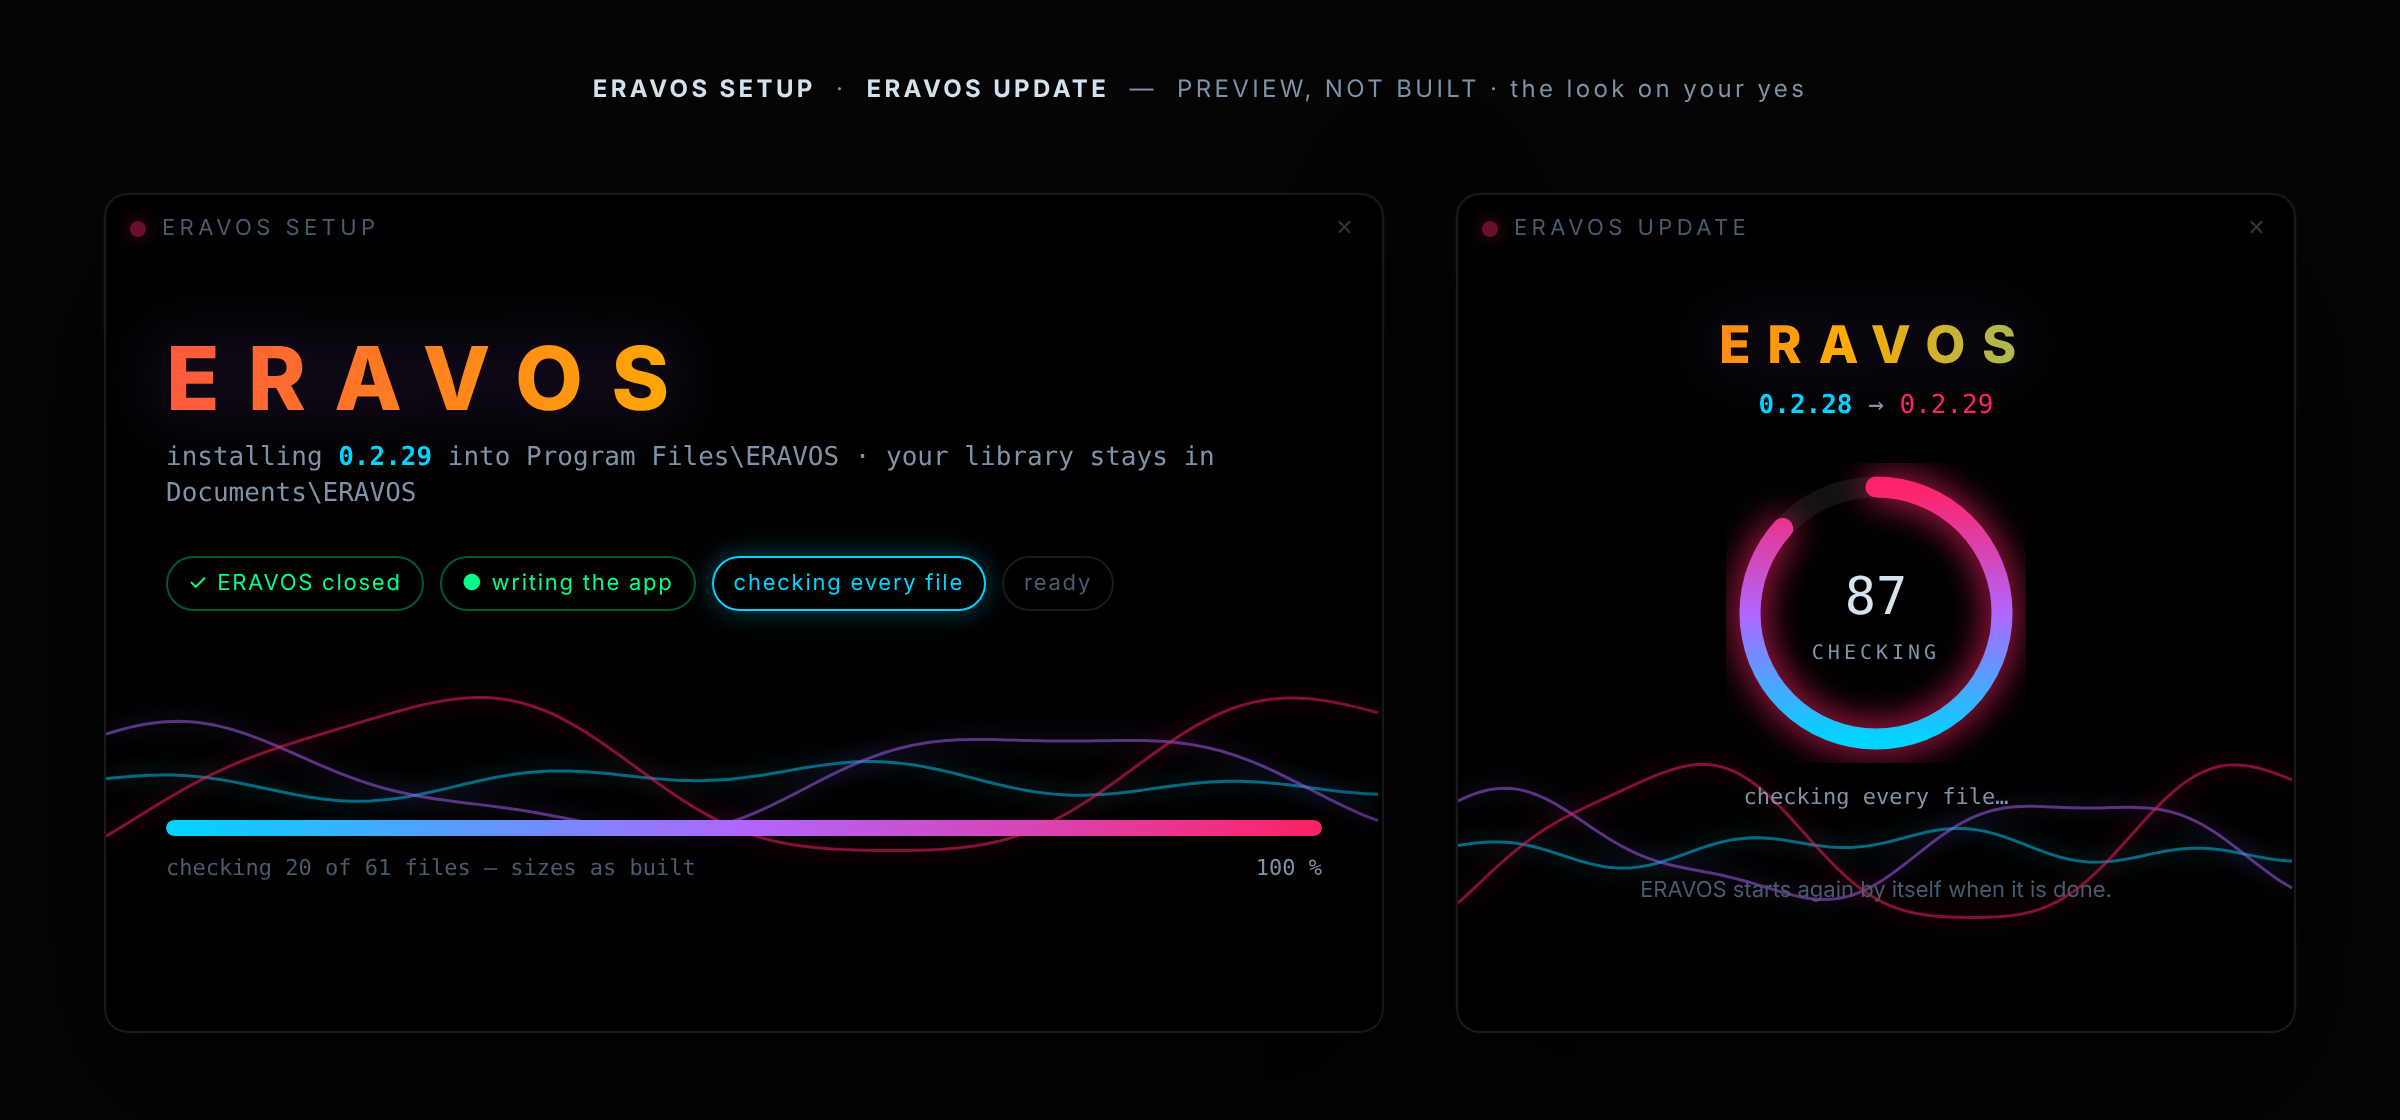
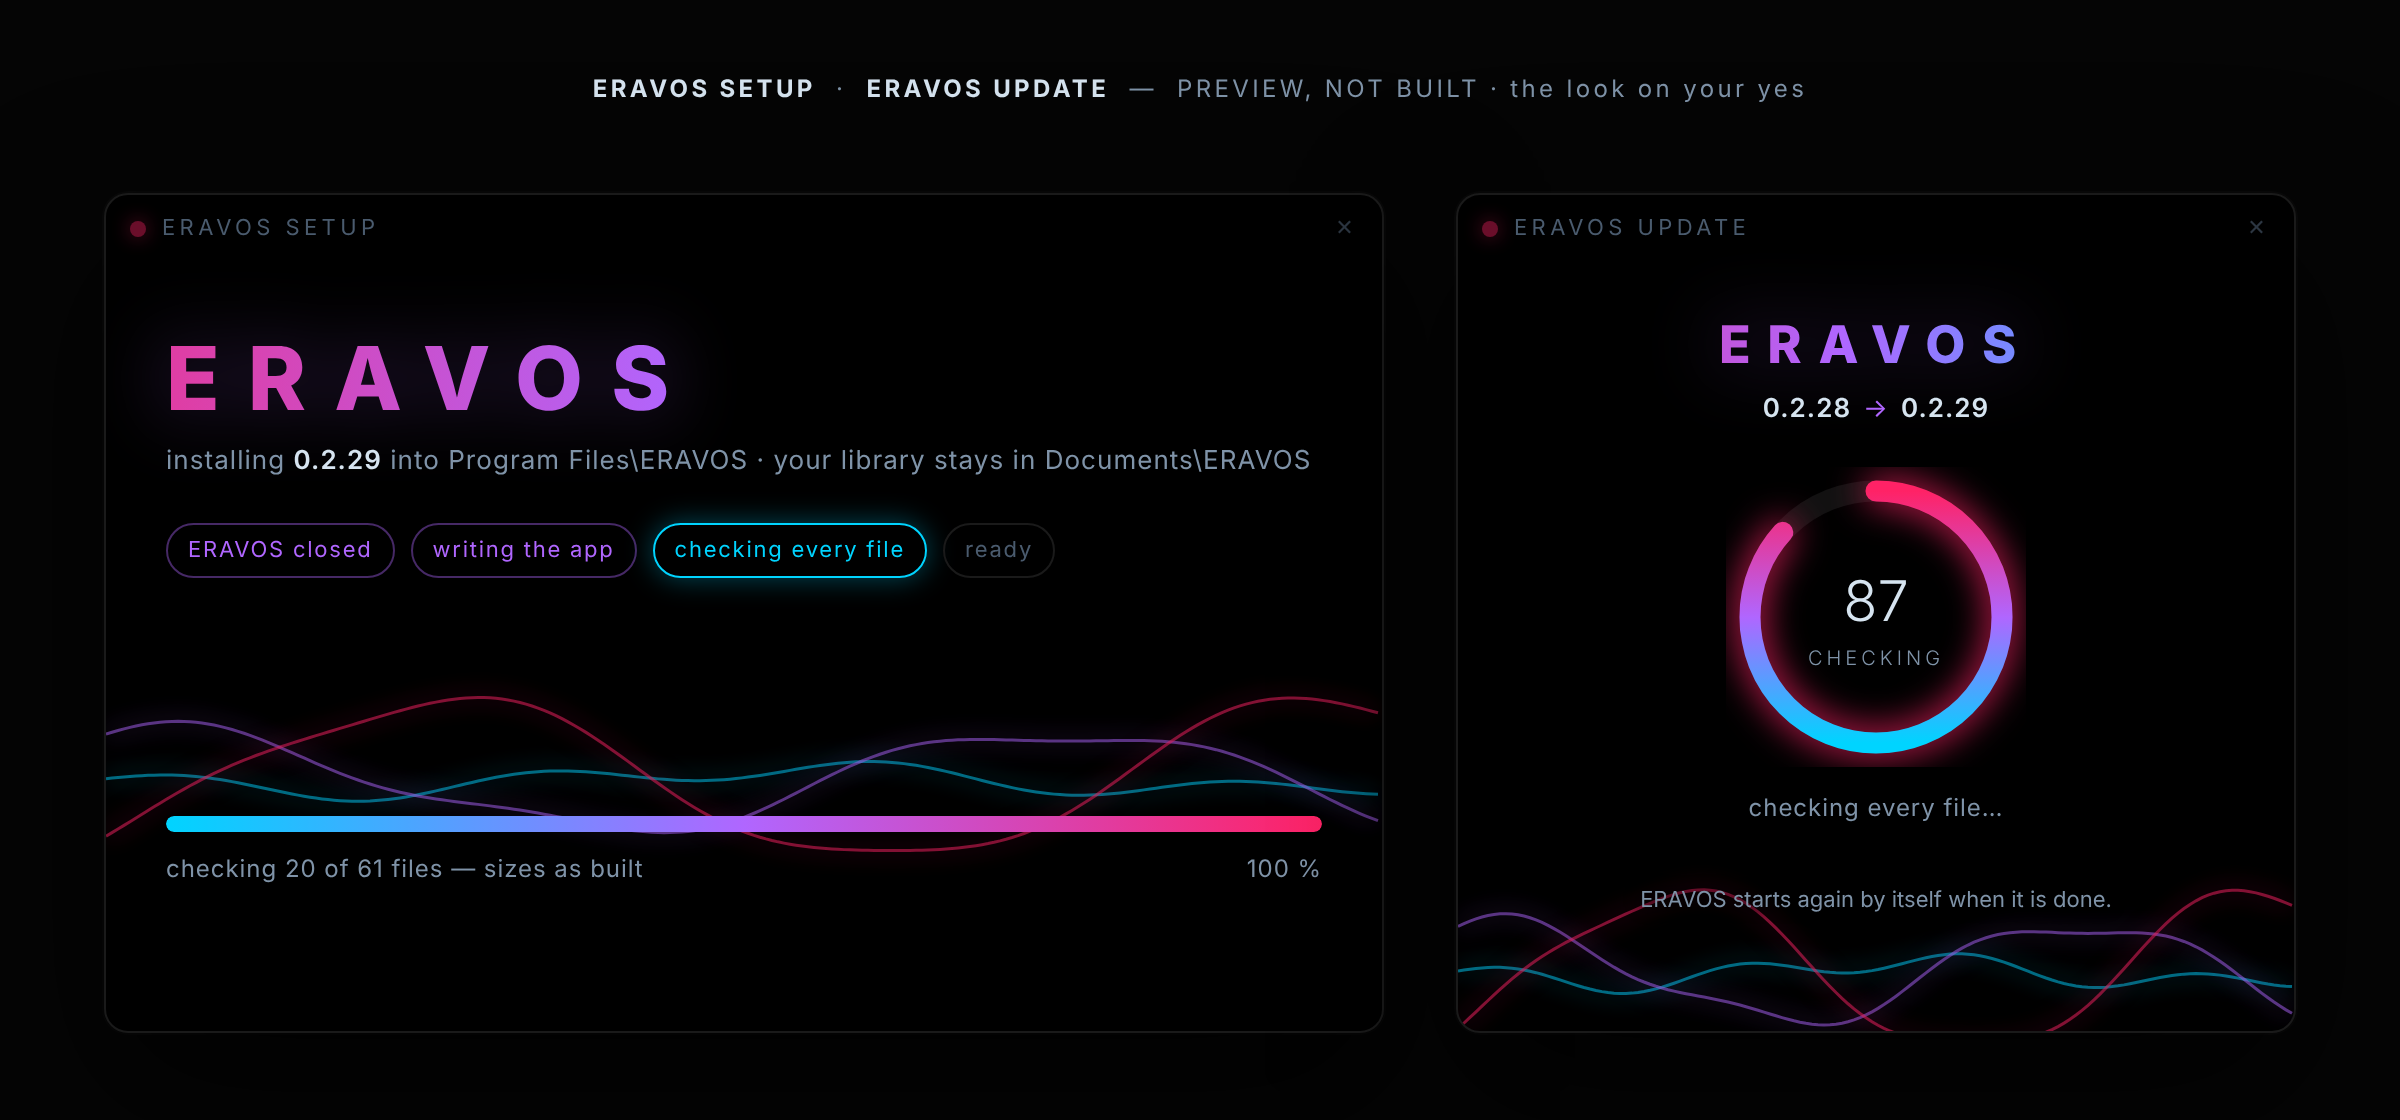
Installer preview: one colour scheme (the waves' cyan, violet, pink), one font
Claude-Session: https://claude.ai/code/session_01KyrX6XHeDPLhr5Y3DyNNas

diff --git a/docs/previews/installer/installer.html b/docs/previews/installer/installer.html
@@ -22,18 +22,18 @@ body { margin:0; background:#050505; color:var(--text); font: 13px/1.4 "Segoe UI
 canvas.field { position:absolute; inset:0; width:100%; height:100%; opacity:.9; pointer-events:none; }
 .inner { position:relative; padding:22px 30px; height:calc(100% - 34px); display:flex; flex-direction:column; }
 .mark { font-weight:800; font-size:44px; letter-spacing:.32em; line-height:1; margin-top:14px;
-  background: linear-gradient(90deg, var(--cyan), var(--violet), var(--pink), var(--amber), var(--cyan)); background-size: 300% 100%;
+  background: linear-gradient(90deg, var(--cyan), var(--violet), var(--pink), var(--violet), var(--cyan)); background-size: 300% 100%;
   -webkit-background-clip:text; background-clip:text; color:transparent; animation: flow 6s linear infinite, grow 1.1s cubic-bezier(.2,.9,.2,1) both;
   filter: drop-shadow(0 0 18px rgba(176,102,255,.35)); }
 .update .mark { font-size:26px; margin-top:6px; }
 @keyframes flow { to { background-position: 300% 0 } }
 @keyframes grow { from { opacity:0; transform: scale(.86); letter-spacing:.6em; filter: blur(6px) } }
-.ver { color:var(--dim); font-family:var(--mono); margin-top:8px; animation: rise .8s .4s both; }
-.ver b { color:var(--cyan) } .ver .to { color:var(--pink) }
+.ver { color:var(--dim); margin-top:10px; font-size:13px; letter-spacing:.04em; animation: rise .8s .4s both; }
+.ver b, .ver .to { color:var(--text); font-weight:600 } .ver .arr { color:var(--violet); margin:0 6px }
 @keyframes rise { from { opacity:0; transform: translateY(10px) } }
 .steps { display:flex; gap:8px; margin-top:22px; flex-wrap:wrap; }
 .st { padding:5px 10px; border-radius:20px; border:1px solid var(--line); color:var(--faint); font-size:11px; letter-spacing:.08em; animation: rise .6s both; }
-.st.done { color:var(--green); border-color: rgba(0,255,136,.35); }
+.st.done { color:var(--violet); border-color: rgba(176,102,255,.4); }
 .st.now { color:var(--cyan); border-color: var(--cyan); box-shadow: 0 0 14px rgba(0,212,255,.35); }
 .st:nth-child(1){animation-delay:.6s}.st:nth-child(2){animation-delay:.7s}.st:nth-child(3){animation-delay:.8s}.st:nth-child(4){animation-delay:.9s}
 .prog { margin-top:auto; }
@@ -43,20 +43,20 @@ canvas.field { position:absolute; inset:0; width:100%; height:100%; opacity:.9; 
 .fill::after { content:''; position:absolute; inset:0; background: linear-gradient(90deg, transparent, rgba(255,255,255,.55), transparent);
   width:80px; animation: shine 1.3s linear infinite; }
 @keyframes shine { from { transform: translateX(-80px) } to { transform: translateX(640px) } }
-.line { display:flex; justify-content:space-between; margin-top:9px; font-family:var(--mono); font-size:11px; color:var(--dim); }
-.line .f { color:var(--faint); white-space:nowrap; overflow:hidden; text-overflow:ellipsis; max-width:70%; }
+.line { display:flex; justify-content:space-between; margin-top:10px; font-size:12px; letter-spacing:.04em; color:var(--dim); }
+.line .f { color:var(--dim); white-space:nowrap; overflow:hidden; text-overflow:ellipsis; max-width:70%; }
 .btns { display:flex; gap:10px; margin-top:16px; justify-content:flex-end; }
 .btn { padding:8px 16px; border-radius:8px; border:1px solid var(--line); background:#0a0a0a; color:var(--text); font:inherit; font-size:12px; letter-spacing:.06em; }
 .btn.hot { border-color: var(--pink); color:#fff; background:#0a0a0a; box-shadow: 0 0 18px rgba(255,34,102,.35), inset 0 0 0 1px rgba(255,34,102,.2); }
-.note { color:var(--faint); font-size:11px; margin-top:12px; }
+.note { color:var(--dim); font-size:11px; margin-top:12px; position:relative; text-shadow:0 0 8px #000, 0 0 8px #000; }
 /* the update ring */
 .ring { width:150px; height:150px; margin: 20px auto 6px; position:relative; }
 .ring svg { width:100%; height:100%; transform: rotate(-90deg); }
-.ring .pct { position:absolute; inset:0; display:flex; align-items:center; justify-content:center; flex-direction:column; font-family:var(--mono); font-size:26px; }
+.ring .pct { position:absolute; inset:0; display:flex; align-items:center; justify-content:center; flex-direction:column; font-size:28px; font-weight:300; }
 .ring .pct small { font-size:10px; color:var(--dim); letter-spacing:.2em; margin-top:2px; }
-.ok { color:var(--green); text-align:center; font-size:12px; letter-spacing:.12em; min-height:18px; }
-.check { font-family:var(--mono); font-size:11px; color:var(--dim); text-align:center; margin-top:4px; min-height:16px; }
-.check b { color:var(--green); font-weight:400; }
+.ok { position:relative; text-align:center; font-size:12px; letter-spacing:.14em; min-height:18px; font-weight:600; background: linear-gradient(90deg, var(--cyan), var(--violet), var(--pink)); -webkit-background-clip:text; background-clip:text; color:transparent; }
+.check { position:relative; text-shadow:0 0 8px #000, 0 0 8px #000; font-size:12px; letter-spacing:.04em; color:var(--dim); text-align:center; margin-top:6px; min-height:16px; }
+.check b { color:var(--text); font-weight:400; }
 </style></head><body>
 <div class="cap"><b>ERAVOS SETUP</b> &nbsp;·&nbsp; <b>ERAVOS UPDATE</b> &nbsp;—&nbsp; PREVIEW, NOT BUILT · the look on your yes</div>
 
@@ -66,7 +66,7 @@ canvas.field { position:absolute; inset:0; width:100%; height:100%; opacity:.9; 
   <div class="inner">
     <div class="mark">ERAVOS</div>
     <div class="ver">installing <b>0.2.29</b> into Program Files\ERAVOS · your library stays in Documents\ERAVOS</div>
-    <div class="steps" id="sSteps"><span class="st done">✓ ERAVOS closed</span><span class="st now">● writing the app</span><span class="st">checking every file</span><span class="st">ready</span></div>
+    <div class="steps" id="sSteps"><span class="st done">ERAVOS closed</span><span class="st now">writing the app</span><span class="st">checking every file</span><span class="st">ready</span></div>
     <div class="prog"><div class="track"><div class="fill" id="sFill"></div></div>
       <div class="line"><span class="f" id="sFile">resources\app\tools\music\…</span><span id="sPct">0 %</span></div>
       <div class="btns" id="sBtns"><button class="btn">Open my library</button><button class="btn hot" id="sGo">Start ERAVOS</button></div></div>
@@ -78,7 +78,7 @@ canvas.field { position:absolute; inset:0; width:100%; height:100%; opacity:.9; 
   <div class="bar"><i></i>ERAVOS UPDATE<span class="x">✕</span></div>
   <div class="inner">
     <div class="mark" style="text-align:center">ERAVOS</div>
-    <div class="ver" style="text-align:center"><b>0.2.28</b> → <span class="to">0.2.29</span></div>
+    <div class="ver" style="text-align:center"><b>0.2.28</b><span class="arr">→</span><span class="to">0.2.29</span></div>
     <div class="ring"><svg viewBox="0 0 100 100"><defs><linearGradient id="g" x1="0" x2="1"><stop offset="0" stop-color="#00d4ff"/><stop offset=".5" stop-color="#b066ff"/><stop offset="1" stop-color="#ff2266"/></linearGradient></defs>
       <circle cx="50" cy="50" r="42" fill="none" stroke="#111" stroke-width="7"/>
       <circle id="uArc" cx="50" cy="50" r="42" fill="none" stroke="url(#g)" stroke-width="7" stroke-linecap="round" stroke-dasharray="264" stroke-dashoffset="264" style="filter: drop-shadow(0 0 6px #ff2266)"/></svg>
@@ -100,7 +100,7 @@ document.querySelectorAll('canvas.field').forEach((cv, k) => {
   (function draw(now) { const t = (clock(now) - (FROZEN ? 0 : t0)) / 1000, W = cv.width, H = cv.height, rev = Math.min(1, t / 1.6);
     x.clearRect(0, 0, W, H);
     cols.forEach((c, i) => { x.beginPath(); for (let px = 0; px <= W * rev; px += 6) { const u = px / W;
-        const y = H * (k ? .78 : .7) + Math.sin(u * 9 + t * (0.8 + i * .3) + i * 2) * H * .05 * (1 + Math.sin(t * .7 + i)) + Math.sin(u * 23 - t * 2) * H * .012;
+        const y = H * (k ? .93 : .7) + Math.sin(u * 9 + t * (0.8 + i * .3) + i * 2) * H * .05 * (1 + Math.sin(t * .7 + i)) + Math.sin(u * 23 - t * 2) * H * .012;
         px ? x.lineTo(px, y) : x.moveTo(px, y); }
       x.strokeStyle = c; x.globalAlpha = .55; x.lineWidth = 3; x.shadowColor = c; x.shadowBlur = 24; x.stroke(); });
     x.globalAlpha = 1; requestAnimationFrame(draw); })(t0);
@@ -109,7 +109,7 @@ document.querySelectorAll('canvas.field').forEach((cv, k) => {
 const files = ['ERAVOS.exe', 'resources\\app\\canvas\\runtime\\canvas-wm.js', 'resources\\app\\tools\\music\\tools\\bass\\wobble-bass\\…', 'locales\\en-US.pak', 'resources.pak', 'icudtl.dat', 'resources\\app\\tools\\core\\field\\board.js'];
 const sFill = document.getElementById('sFill'), sPct = document.getElementById('sPct'), sFile = document.getElementById('sFile'), sSteps = document.getElementById('sSteps').children;
 const uArc = document.getElementById('uArc'), uPct = document.getElementById('uPct'), uWhat = document.getElementById('uWhat'), uCheck = document.getElementById('uCheck'), uOk = document.getElementById('uOk');
-const T = 9000; const set = (el, cls) => { el.className = 'st ' + cls; };
+const T = 9000; const set = (el, cls) => { el.className = 'st ' + cls; };   // done violet, now cyan — the same palette as the waves and the ring
 (function tick(now) { now = clock(now); const p = (now % (T + 3000)) / T, w = Math.min(1, p / .8), c = Math.min(1, Math.max(0, (p - .8) / .2));
   sFill.style.width = (w * 100) + '%'; sPct.textContent = Math.round(w * 100) + ' %';
   sFile.textContent = p < .8 ? files[Math.floor(now / 350) % files.length] : p < 1 ? 'checking ' + Math.round(c * 61) + ' of 61 files — sizes as built' : 'every file in full ✓';
